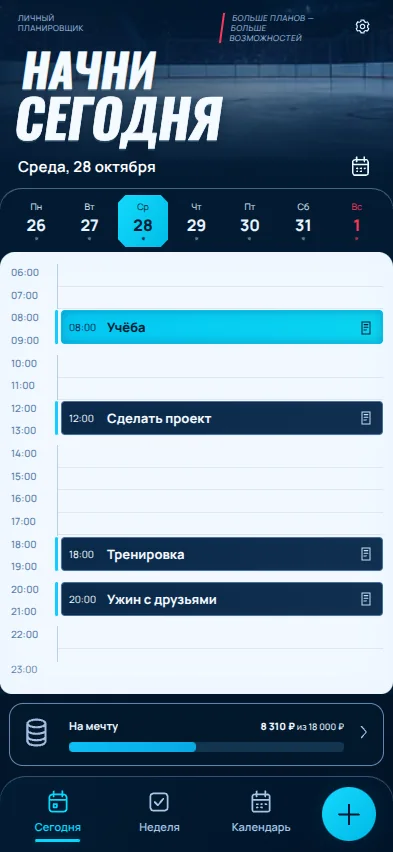
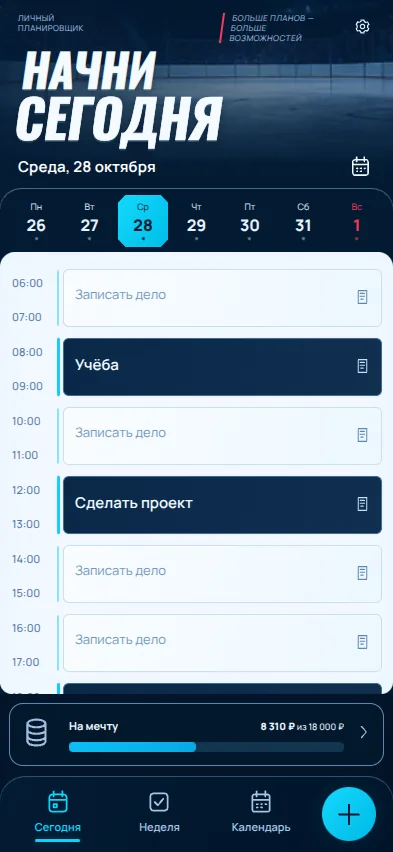
Fix Ice schedule input: 06–24 range, stable larger fields and keyboard-aware inline editing (2.3.1)

Changed region(s): [[0.0305, 0.3052, 0.9771, 0.8239]]

diff --git a/app/src/main/assets/index.html b/app/src/main/assets/index.html
@@ -554,6 +554,49 @@ body[data-design=ice].note-open .tabs{display:none!important}
 body[data-design=ice] #main-menu-open{display:none}
 @media(max-width:350px){body[data-design=ice]{--ice-hour:22px}.ice-hero{height:181px;min-height:181px;padding-left:15px;padding-right:15px}.ice-hero h1>span{font-size:43px}.ice-hero h1>strong{font-size:49px}.ice-date-line{font-size:13px}.ice-week{gap:2px;padding-left:7px;padding-right:7px}.ice-week button>strong{font-size:15px}body[data-design=ice] .tabs{grid-template-columns:repeat(3,minmax(0,1fr)) 62px;padding-left:3px;padding-right:3px}body[data-design=ice] .tabs>.tab{font-size:10px}.ice-paper{padding-left:8px;padding-right:8px}.ice-time-block{grid-template-columns:42px minmax(0,1fr)}.ice-time-block.has-entry .ice-entry{grid-template-columns:34px minmax(0,1fr) 22px}.ice-time-block.has-entry textarea{font-size:11px}.ice-goal-copy b{font-size:10px}.ice-goal-copy strong,.ice-goal-copy small{font-size:8px}}
 
+/* The Ice schedule scrolls with usable input areas rather than squeezing all hours. */
+body[data-design=ice]{--ice-hour:34px}
+body[data-design=ice] .ice-paper{padding:14px 11px 18px}
+body[data-design=ice] .ice-time-block{height:auto;min-height:calc(var(--ice-hour) * var(--ice-hours));align-items:start}
+body[data-design=ice] .ice-hours{min-height:calc(var(--ice-hour) * var(--ice-hours));font-size:11px}
+body[data-design=ice] .ice-hours>time{top:8px;line-height:18px}
+body[data-design=ice] .ice-hours>time.ice-mid-hour{top:calc(var(--ice-hour) + 8px)}
+body[data-design=ice] .ice-entry,body[data-design=ice] .ice-time-block.has-entry .ice-entry{display:grid;grid-template-columns:minmax(0,1fr) 29px;gap:3px;align-items:start;align-self:stretch;height:auto;min-height:56px;max-height:none;min-width:0;margin:3px 0 8px 5px;padding:7px 4px 7px 6px;border:1px solid #c9dfef;border-radius:6px;background:linear-gradient(105deg,#f8fcff,#edf7ff);box-shadow:none;color:#123b60}
+body[data-design=ice] .ice-entry:before{content:'';position:absolute;left:-7px;top:0;bottom:0;width:2px;background:var(--ice-entry-mark,#16c8f5);border-radius:3px;opacity:.3}
+body[data-design=ice] .ice-time-block.has-entry .ice-entry{background:linear-gradient(105deg,#0a2949,#102f50);border-color:#3d658a;color:#f2f9ff}
+body[data-design=ice] .ice-time-block.has-entry .ice-entry:before{opacity:1}
+body[data-design=ice] .ice-card-time{display:none!important}
+body[data-design=ice] .ice-entry textarea,body[data-design=ice] .ice-time-block.has-entry textarea{box-sizing:border-box;display:block;width:100%;min-width:0;height:42px;min-height:42px;max-height:none;margin:0;padding:7px 5px;border:0;border-radius:3px;background:transparent;resize:none;overflow:auto;color:inherit;font-family:PlannerManrope,system-ui,sans-serif;font-size:15px;font-weight:600;line-height:1.55;letter-spacing:0;outline:none}
+body[data-design=ice] .ice-entry textarea::placeholder{color:#7398b8;font-size:13px;font-weight:400}
+body[data-design=ice] .ice-entry textarea:focus{background:transparent;outline:none}
+body[data-design=ice] .ice-entry-reminder,body[data-design=ice] .ice-time-block.has-entry .ice-entry-reminder{display:flex;align-items:center;justify-content:center;width:29px;height:40px;min-width:29px;padding:6px;border:0;border-radius:4px;background:transparent;color:#5c8ab0}
+body[data-design=ice] .ice-time-block.has-entry .ice-entry-reminder{color:#c8def4}
+body[data-design=ice] .ice-entry-reminder svg{height:18px;width:18px}
+body[data-design=ice] .ice-time-block.has-entry.ice-current .ice-entry{background:linear-gradient(110deg,#07caf2,#0bd6ef);border-color:#04b6dd;color:#042b44}
+body[data-design=ice] .ice-time-block.has-entry.ice-current textarea,body[data-design=ice] .ice-time-block.has-entry.ice-current .ice-entry-reminder{color:#042b44}
+.ice-edit-bar{display:none}
+/* A focused entry gets the visible area above the Android keyboard. */
+body[data-design=ice].ice-editing main{height:var(--ice-visible-height,100dvh);max-height:var(--ice-visible-height,100dvh)}
+body[data-design=ice].ice-editing .ice-hero{height:46px;min-height:46px;padding:6px 13px}
+body[data-design=ice].ice-editing .ice-hero-top,body[data-design=ice].ice-editing .ice-hero h1,body[data-design=ice].ice-editing .ice-week{display:none}
+body[data-design=ice].ice-editing .ice-date-line{margin-top:0;min-height:32px;font-size:13px}
+body[data-design=ice].ice-editing #ice-goal,body[data-design=ice].ice-editing .tabs{display:none!important}
+body[data-design=ice].ice-editing .ice-edit-bar{display:flex;align-items:center;justify-content:space-between;gap:12px;height:49px;min-height:49px;padding:5px 13px;background:#06233e;color:#e6f7ff;border-top:1px solid #2c5273}
+.ice-edit-bar>span{display:flex;flex-direction:column;gap:1px}
+.ice-edit-bar small{font-size:8px;font-weight:400;color:#92b5d4}
+.ice-edit-bar strong{font-size:14px;font-weight:700;letter-spacing:.2px}
+.ice-edit-bar button{border:0;border-radius:7px;background:#09d2f2;color:#00243b;font-family:inherit;font-size:13px;font-weight:750;min-height:36px;padding:8px 16px}
+body[data-design=ice].ice-editing .ice-paper{border-radius:10px 10px 0 0;padding-top:12px;padding-bottom:22px}
+body[data-design=ice] .ice-time-block.ice-row-editing{min-height:148px}
+body[data-design=ice] .ice-time-block.ice-row-editing .ice-entry{align-self:start;min-height:130px;max-height:none;background:#fff;color:#123451;border:2px solid #0dbde8;padding:6px 3px 6px 5px;box-shadow:0 3px 12px #1476b513}
+body[data-design=ice] .ice-time-block.ice-row-editing .ice-entry textarea{font-size:16px;font-weight:500;line-height:1.6;color:#123451}
+body[data-design=ice] .ice-time-block.ice-row-editing .ice-entry-reminder{color:#4385ac}
+body[data-design=ice] .ice-time-end{padding-top:3px;height:24px;line-height:18px;font-size:11px}
+@media(max-width:350px){body[data-design=ice]{--ice-hour:34px}body[data-design=ice] .ice-entry textarea,body[data-design=ice] .ice-time-block.has-entry textarea{font-size:14px}body[data-design=ice] .ice-time-block.ice-row-editing .ice-entry textarea{font-size:16px}}
+
+
+body[data-design=ice] .ice-time-block.ice-row-editing.has-entry.ice-current .ice-entry{background:#fff;color:#123451;border-color:#0dbde8}
+body[data-design=ice] .ice-time-block.ice-row-editing.has-entry.ice-current textarea{color:#123451}
 </style></head><body><main><header class="app-heading"><p id="top-date"></p><div class="header-actions"><button class="header-icon" data-tab="events" aria-label="События и напоминания"><svg viewBox="0 0 24 24" fill="none" stroke="currentColor" stroke-width="1.7"><path d="M18 8a6 6 0 0 0-12 0c0 7-3 7-3 9h18c0-2-3-2-3-9M10 21h4"/></svg></button><button class="header-icon" id="settings-open" aria-label="Настройки" aria-expanded="false"><svg viewBox="0 0 24 24" fill="none" stroke="currentColor" stroke-width="1.7"><path d="m10 3-.7 2.3-2 .9-2.2-.7-2 3.4 1.5 1.8v2.6L3.1 15l2 3.4 2.2-.7 2 .9.7 2.4h4l.7-2.4 2-.9 2.2.7 2-3.4-1.5-1.7v-2.6l1.5-1.8-2-3.4-2.2.7-2-.9L14 3z"/><circle cx="12" cy="12" r="3"/></svg></button></div></header><nav class="tabs" aria-label="Период"><button class="tab active" data-tab="day"><svg class="ui-icon" width="20" height="20" viewBox="0 0 24 24" fill="none" stroke="currentColor" stroke-width="1.65" stroke-linecap="round" stroke-linejoin="round" aria-hidden="true"><rect x="4" y="5" width="16" height="16" rx="3"/><path d="M8 3v4m8-4v4M4 11h16m-11 4h2v2H9z"/></svg><span>День</span></button><button class="tab" data-tab="week"><svg class="ui-icon" width="20" height="20" viewBox="0 0 24 24" fill="none" stroke="currentColor" stroke-width="1.65" stroke-linecap="round" stroke-linejoin="round" aria-hidden="true"><rect x="3" y="3" width="7" height="7" rx="1"/><rect x="14" y="3" width="7" height="7" rx="1"/><rect x="3" y="14" width="7" height="7" rx="1"/><rect x="14" y="14" width="7" height="7" rx="1"/></svg><span>Неделя</span></button><button class="tab" data-tab="calendar"><svg class="ui-icon" width="20" height="20" viewBox="0 0 24 24" fill="none" stroke="currentColor" stroke-width="1.65" stroke-linecap="round" stroke-linejoin="round" aria-hidden="true"><rect x="4" y="5" width="16" height="16" rx="3"/><path d="M8 3v4m8-4v4M4 11h16m-11 4h6"/></svg><span>Календарь</span></button><button class="tab" data-tab="savings"><svg class="ui-icon" width="20" height="20" viewBox="0 0 24 24" fill="none" stroke="currentColor" stroke-width="1.65" stroke-linecap="round" stroke-linejoin="round" aria-hidden="true"><ellipse cx="12" cy="5" rx="7" ry="3"/><path d="M5 5v5c0 4 14 4 14 0V5M5 10v5c0 4 14 4 14 0v-5M5 15v4c0 4 14 4 14 0v-4"/></svg><span>Накопления</span></button><button class="tab" data-tab="notes"><svg class="ui-icon" width="20" height="20" viewBox="0 0 24 24" fill="none" stroke="currentColor" stroke-width="1.65" stroke-linecap="round" stroke-linejoin="round" aria-hidden="true"><path d="M14 3H6a2 2 0 0 0-2 2v14a2 2 0 0 0 2 2h12a2 2 0 0 0 2-2V9zM14 3v6h6M8 13h8m-8 4h6"/></svg><span>Заметки</span></button><button class="tab" data-tab="events" aria-label="События и напоминания"><svg class="ui-icon" width="20" height="20" viewBox="0 0 24 24" fill="none" stroke="currentColor" stroke-width="1.65" stroke-linecap="round" stroke-linejoin="round" aria-hidden="true"><path d="M18 8a6 6 0 0 0-12 0c0 7-3 7-3 9h18c0-2-3-2-3-9M10 21h4"/></svg></button></nav><div class="toolbar"><div class="period-title"><h1 class="date-title" id="title"></h1><p class="sub" id="subtitle"></p></div><div class="nav"><button class="btn arrow" id="prev" aria-label="Предыдущий период">‹</button><label class="sr-only" for="date">Выбрать дату</label><input class="date-input" id="date" type="date"><button class="btn arrow" id="next" aria-label="Следующий период">›</button><button class="btn" id="today">Сегодня</button></div></div><div id="view"></div><div id="footer-home" hidden></div><footer id="app-footer" hidden><span id="save-state" role="status">Сохранено на устройстве</span><button id="global-calc-open" hidden aria-label="Калькулятор"></button></footer></main>
 <dialog id="reminder-dialog" aria-labelledby="reminder-title"><form id="reminder-form"><div class="dialog-head"><h2 id="reminder-title">Событие</h2><button type="button" data-close="reminder-dialog" aria-label="Закрыть">×</button></div><input name="reminderId" type="hidden"><label class="field">Название<input name="title" maxlength="500" required placeholder="Например, день рождения"></label><div class="reminder-datetime"><label class="field">Дата<input name="date" type="date" required></label><label class="field">Время<input name="time" type="time" required></label></div><label class="field">Напомнить<select name="lead"><option value="0">В указанное время</option><option value="5">За 5 минут</option><option value="10">За 10 минут</option><option value="15">За 15 минут</option><option value="30">За 30 минут</option><option value="60">За 1 час</option><option value="1440">За 1 день</option></select></label><label class="field">Повтор<select name="repeat"><option value="none">Один раз</option><option value="daily">Каждый день</option><option value="weekly">По дням недели</option><option value="monthly">Каждый месяц</option><option value="yearly">Каждый год</option></select></label><div id="weekday-options" class="weekday-options" hidden><label><input name="weekdays" type="checkbox" value="1">Пн</label><label><input name="weekdays" type="checkbox" value="2">Вт</label><label><input name="weekdays" type="checkbox" value="3">Ср</label><label><input name="weekdays" type="checkbox" value="4">Чт</label><label><input name="weekdays" type="checkbox" value="5">Пт</label><label><input name="weekdays" type="checkbox" value="6">Сб</label><label><input name="weekdays" type="checkbox" value="7">Вс</label></div><p class="dialog-note" id="repeat-help"></p><label class="enabled-reminder"><input type="checkbox" name="enabled" checked>Уведомление включено</label><p id="reminder-error" class="form-error" hidden></p><div class="dialog-actions"><button type="button" class="btn danger" id="reminder-delete" hidden>Удалить</button><button type="submit" class="btn primary">Сохранить</button></div></form></dialog>
 <dialog id="main-menu-dialog" aria-labelledby="main-menu-title"><form id="main-menu-form"><div class="dialog-head"><h2 id="main-menu-title">Главное меню</h2><button type="button" data-close="main-menu-dialog" aria-label="Закрыть">×</button></div><p class="dialog-note">Выбери три раздела для нижнего меню. Плюс остаётся третьей кнопкой. Выбор и порядок одинаковы во всех темах.</p><div id="main-menu-preview" class="main-menu-preview" aria-label="Предпросмотр меню"></div><label class="field">Первая кнопка<select name="menuFirst"></select></label><label class="field">Вторая кнопка<select name="menuSecond"></select></label><label class="field">Кнопка справа от плюса<select name="menuThird"></select></label><p id="main-menu-error" class="form-error" role="alert" hidden></p><p class="dialog-note">Скрытие кнопки не удаляет записи. На день и в настройки можно перейти через «+».</p><button class="btn" id="main-menu-reset" type="button">По умолчанию</button><div class="dialog-actions"><button class="btn" type="button" data-close="main-menu-dialog">Отмена</button><button class="btn primary" id="main-menu-save" type="submit">Сохранить</button></div></form></dialog><dialog id="ice-menu-dialog" aria-labelledby="ice-menu-title"><div class="dialog-head"><h2 id="ice-menu-title">Больше возможностей</h2><button data-close="ice-menu-dialog" aria-label="Закрыть">×</button></div><div id="ice-tools-list"></div></dialog><dialog id="theme-dialog" aria-labelledby="theme-title"><div class="dialog-head"><h2 id="theme-title">Оформление</h2><button data-close="theme-dialog" aria-label="Закрыть">×</button></div><p class="dialog-note">Открой оформление, посмотри его разделы и нажми «Применить». Цвета можно настроить отдельно.</p><h3 class="appearance-label">Темы приложения</h3><div id="design-gallery" class="design-gallery"></div><h3 class="appearance-label">Цветовая тема</h3><div class="themes-grid" id="themes-grid"></div><section class="custom-theme"><h3>Своя тема</h3><label class="custom-accent-label">Цвет акцента<input id="custom-accent" type="color" value="#52699b"></label><label class="enabled-reminder"><input id="custom-dark" type="checkbox">Тёмный фон</label><button class="btn primary" id="custom-theme-apply">Применить свой цвет</button></section><label class="field">Шрифт интерфейса<select id="typeface-choice"><option value="theme">По теме</option><option value="modern">Современный · Manrope</option><option value="book">Книжный · Lora</option><option value="system">Системный</option></select></label><label class="field">Размер записей<select id="font-size-choice"><option value="small">Компактный</option><option value="normal">Обычный</option><option value="large">Крупный</option></select></label><label class="field">Высота строк расписания<select id="density-choice"><option value="normal">Обычная</option><option value="compact">Компактная</option></select></label></dialog>
@@ -816,14 +859,29 @@ document.addEventListener('click',e=>{const b=e.target.closest('button');if(!b)r
 const iceIcons={today:'<rect x="4" y="5" width="16" height="16" rx="3"/><path d="M8 2v5m8-5v5M4 10h16M8 14h3v3H8z"/>',week:'<rect x="4" y="4" width="16" height="16" rx="3"/><path d="m8 12 3 3 5-6"/>',calendar:'<rect x="4" y="5" width="16" height="16" rx="2"/><path d="M8 2v5m8-5v5M4 10h16M8 14h1m3 0h1m3 0h1M8 17h1m3 0h1"/>',plus:'<path d="M12 3v18M3 12h18"/>',calculator:'<rect x="5" y="2" width="14" height="20" rx="2"/><path d="M8 6h8v4H8zM8 14h1m3 0h1m3 0h.1M8 18h1m3 0h1m3 0h.1"/>',notes:'<path d="M6 3h12v18H6zM9 7h6M9 11h6M9 15h4"/>',savings:'<ellipse cx="12" cy="5" rx="7" ry="3"/><path d="M5 5v5c0 4 14 4 14 0V5M5 10v5c0 4 14 4 14 0v-5M5 15v4c0 4 14 4 14 0v-4"/>',gear:'<path d="m10 3-.7 2.3-2 .9-2.2-.7-2 3.4 1.5 1.8v2.6L3.1 15l2 3.4 2.2-.7 2 .9.7 2.4h4l.7-2.4 2-.9 2.2.7 2-3.4-1.5-1.7v-2.6l1.5-1.8-2-3.4-2.2.7-2-.9L14 3z"/><circle cx="12" cy="12" r="3"/>',arrow:'<path d="m9 4 7 8-7 8"/>'};
 function iceIcon(name){return '<svg viewBox="0 0 24 24" fill="none" stroke="currentColor" stroke-width="1.65" stroke-linecap="round" stroke-linejoin="round" aria-hidden="true">'+iceIcons[name]+'</svg>'}
 function renderDay(){if(state.prefs.design==='ice')renderIceDay();else renderLegacyDay()}
-function syncDesignNavigation(){const nav=document.querySelector('.tabs');if(state.prefs?.design!=='ice'){const goal=$('ice-goal');if(goal)goal.hidden=true;syncLegacyDesignNavigation();return}const gear=$('settings-open'),home=document.querySelector('.header-actions');if(gear&&home&&gear.parentElement!==home)home.appendChild(gear);if(!nav)return;nav.dataset.unifiedMenu='ice';nav.dataset.menuKey='';if(!nav.querySelector('#ice-add'))nav.innerHTML=`<button class="tab" data-ice-action="today" aria-label="Сегодня">${iceIcon('today')}<span>Сегодня</span></button><button class="tab" data-tab="week">${iceIcon('week')}<span>Неделя</span></button><button class="tab" data-tab="calendar">${iceIcon('calendar')}<span>Календарь</span></button><button class="ice-compose" id="ice-add" aria-label="Открыть инструменты">${iceIcon('plus')}</button>`;const today=nav.querySelector('[data-ice-action=today]');today.classList.toggle('active',tab==='day'&&selected===iso());today.setAttribute('aria-current',tab==='day'&&selected===iso()?'page':'false');const oldGoal=$('reference-goal');if(oldGoal)oldGoal.hidden=true;let goal=$('ice-goal');if(!goal){goal=document.createElement('button');goal.id='ice-goal';goal.className='ice-goal';goal.dataset.iceAction='savings';nav.before(goal)}goal.hidden=tab!=='day';if(!goal.hidden){const s=state.savings,paid=paidCents(s),pct=Math.min(100,100*paid/cents(s.target));goal.innerHTML=`<span class="ice-goal-mark">${iceIcon('savings')}</span><span class="ice-goal-copy"><span><b>${esc(s.name||'Моя цель')}</b><strong>${rub(paid/100)} <small>из ${rub(s.target)}</small></strong></span><span class="ice-goal-track"><i style="width:${pct}%"></i></span></span><span class="ice-goal-arrow">${iceIcon('arrow')}</span>`}}
-function renderIceDay(){const start=monday(selected);$('view').innerHTML=`<section class="ice-home"><header class="ice-hero"><div class="ice-photo-clip" aria-hidden="true"><img src="ice/arena-reference.webp" alt=""></div><div class="ice-photo-shade"></div><div class="ice-hero-top"><span>ЛИЧНЫЙ<br>ПЛАНИРОВЩИК</span><p>БОЛЬШЕ ПЛАНОВ —<br>БОЛЬШЕ ВОЗМОЖНОСТЕЙ</p><span id="ice-gear-slot"></span></div><h1><span>Начни</span><strong>сегодня</strong></h1><div class="ice-date-line"><span>${fmt(selected,{weekday:'long',day:'numeric',month:'long'}).replace(/^./,c=>c.toUpperCase())}</span><button data-tab="calendar" aria-label="Выбрать дату">${iceIcon('calendar')}</button></div></header><nav class="ice-week" aria-label="Дни недели">${Array.from({length:7},(_,i)=>{const d=addDays(start,i),count=occupied(d)+dayEvents(d).length;return `<button data-date="${d}" class="${i===6?'ice-sunday':''}" ${d===selected?'aria-current="date"':''} aria-label="${fmt(d,{weekday:'long',day:'numeric',month:'long'})}"><span>${fmt(d,{weekday:'short'})}</span><strong>${dateObj(d).getDate()}</strong><i class="${count?'has-plans':''}"></i></button>`}).join('')}</nav><div class="ice-paper"><div class="ice-time-grid">${slots().map((r,i)=>{const [a,b]=TIMES[i].split('–'),h=Number(a.split(':')[0]),end=Number(b.split(':')[0]),hours=end-h;return `<section class="ice-time-block ${r.text.trim()?'has-entry':''}" data-ice-slot="${i}" style="--ice-hours:${hours}"><div class="ice-hours"><time>${a}</time>${hours>1?`<time class="ice-mid-hour">${String(h+1).padStart(2,'0')}:00</time>`:''}</div><div class="ice-entry" style="--ice-entry-mark:${r.color==='none'?'#18caff':COLORS[r.color][1]}"><span class="ice-card-time">${a}</span><label class="sr-only" for="slot-${i}">Дела с ${a} до ${b}</label><textarea rows="1" id="slot-${i}" data-edit="${i}" aria-label="Дела с ${a} до ${b}" maxlength="10000" placeholder="">${esc(r.text)}</textarea><button class="ice-entry-reminder" data-slot-reminder="${i}" aria-label="Напоминание для ${a}">${iceIcon('notes')}</button></div></section>`}).join('')}<div class="ice-time-end">23:00</div></div></div></section>`;$('ice-gear-slot').appendChild($('settings-open'));refreshIceRows()}
-function refreshIceRows(){if(state.prefs.design!=='ice'||tab!=='day')return;const now=new Date(),minutes=now.getHours()*60+now.getMinutes();document.querySelectorAll('.ice-time-block').forEach(row=>{const i=Number(row.dataset.iceSlot),text=row.querySelector('textarea');row.classList.toggle('has-entry',!!text.value.trim());const [a,b]=TIMES[i].split('–').map(t=>{const [h,m]=t.split(':').map(Number);return h*60+m});row.classList.toggle('ice-current',selected===iso()&&minutes>=a&&minutes<b);text.style.height='auto';text.style.height=Math.min(43,Math.max(25,text.scrollHeight))+'px'})}
+function syncDesignNavigation(){if(state.prefs?.design!=='ice'||tab!=='day')endIceEditing(false);const nav=document.querySelector('.tabs');if(state.prefs?.design!=='ice'){const goal=$('ice-goal');if(goal)goal.hidden=true;syncLegacyDesignNavigation();return}const gear=$('settings-open'),home=document.querySelector('.header-actions');if(gear&&home&&gear.parentElement!==home)home.appendChild(gear);if(!nav)return;nav.dataset.unifiedMenu='ice';nav.dataset.menuKey='';if(!nav.querySelector('#ice-add'))nav.innerHTML=`<button class="tab" data-ice-action="today" aria-label="Сегодня">${iceIcon('today')}<span>Сегодня</span></button><button class="tab" data-tab="week">${iceIcon('week')}<span>Неделя</span></button><button class="tab" data-tab="calendar">${iceIcon('calendar')}<span>Календарь</span></button><button class="ice-compose" id="ice-add" aria-label="Открыть инструменты">${iceIcon('plus')}</button>`;const today=nav.querySelector('[data-ice-action=today]');today.classList.toggle('active',tab==='day'&&selected===iso());today.setAttribute('aria-current',tab==='day'&&selected===iso()?'page':'false');const oldGoal=$('reference-goal');if(oldGoal)oldGoal.hidden=true;let goal=$('ice-goal');if(!goal){goal=document.createElement('button');goal.id='ice-goal';goal.className='ice-goal';goal.dataset.iceAction='savings';nav.before(goal)}goal.hidden=tab!=='day';if(!goal.hidden){const s=state.savings,paid=paidCents(s),pct=Math.min(100,100*paid/cents(s.target));goal.innerHTML=`<span class="ice-goal-mark">${iceIcon('savings')}</span><span class="ice-goal-copy"><span><b>${esc(s.name||'Моя цель')}</b><strong>${rub(paid/100)} <small>из ${rub(s.target)}</small></strong></span><span class="ice-goal-track"><i style="width:${pct}%"></i></span></span><span class="ice-goal-arrow">${iceIcon('arrow')}</span>`}}
+function renderIceDay(){const start=monday(selected);$('view').innerHTML=`<section class="ice-home"><header class="ice-hero"><div class="ice-photo-clip" aria-hidden="true"><img src="ice/arena-reference.webp" alt=""></div><div class="ice-photo-shade"></div><div class="ice-hero-top"><span>ЛИЧНЫЙ<br>ПЛАНИРОВЩИК</span><p>БОЛЬШЕ ПЛАНОВ —<br>БОЛЬШЕ ВОЗМОЖНОСТЕЙ</p><span id="ice-gear-slot"></span></div><h1><span>Начни</span><strong>сегодня</strong></h1><div class="ice-date-line"><span>${fmt(selected,{weekday:'long',day:'numeric',month:'long'}).replace(/^./,c=>c.toUpperCase())}</span><button data-tab="calendar" aria-label="Выбрать дату">${iceIcon('calendar')}</button></div></header><nav class="ice-week" aria-label="Дни недели">${Array.from({length:7},(_,i)=>{const d=addDays(start,i),count=occupied(d)+dayEvents(d).length;return `<button data-date="${d}" class="${i===6?'ice-sunday':''}" ${d===selected?'aria-current="date"':''} aria-label="${fmt(d,{weekday:'long',day:'numeric',month:'long'})}"><span>${fmt(d,{weekday:'short'})}</span><strong>${dateObj(d).getDate()}</strong><i class="${count?'has-plans':''}"></i></button>`}).join('')}</nav><div class="ice-edit-bar"><span><small>Редактирование</small><strong id="ice-edit-time"></strong></span><button type="button" id="ice-edit-done">Готово</button></div><div class="ice-paper"><div class="ice-time-grid">${slots().map((r,i)=>{const [a,b]=iceTimeRange(i),h=Number(a.split(':')[0]),end=Number(b.split(':')[0]),hours=end-h;return `<section class="ice-time-block ${r.text.trim()?'has-entry':''}" data-ice-slot="${i}" style="--ice-hours:${hours}"><div class="ice-hours"><time>${a}</time>${hours>1?`<time class="ice-mid-hour">${String(h+1).padStart(2,'0')}:00</time>`:''}</div><div class="ice-entry" style="--ice-entry-mark:${r.color==='none'?'#18caff':COLORS[r.color][1]}"><span class="ice-card-time">${a}</span><label class="sr-only" for="slot-${i}">Дела с ${a} до ${b}</label><textarea rows="1" id="slot-${i}" data-edit="${i}" aria-label="Дела с ${a} до ${b}" maxlength="10000" placeholder="Записать дело" spellcheck="true" autocapitalize="sentences">${esc(r.text)}</textarea><button class="ice-entry-reminder" data-slot-reminder="${i}" aria-label="Напоминание для ${a}">${iceIcon('notes')}</button></div></section>`}).join('')}<div class="ice-time-end">24:00</div></div></div></section>`;$('ice-gear-slot').appendChild($('settings-open'));refreshIceRows()}
+function refreshIceRows(){if(state.prefs.design!=='ice'||tab!=='day')return;const now=new Date(),minutes=now.getHours()*60+now.getMinutes();document.querySelectorAll('.ice-time-block').forEach(row=>{const i=Number(row.dataset.iceSlot),text=row.querySelector('textarea'),focused=text===document.activeElement,oldScroll=text.scrollTop,atEnd=text.selectionEnd===text.value.length;row.classList.toggle('has-entry',!!text.value.trim());row.classList.toggle('ice-row-editing',focused);const [a,b]=iceTimeRange(i).map(t=>{const [h,m]=t.split(':').map(Number);return h*60+m});row.classList.toggle('ice-current',selected===iso()&&minutes>=a&&minutes<b);const visible=iceVisibleHeight(),max=focused?Math.max(88,Math.min(220,visible-145)):66,min=focused?Math.min(112,max):42;text.style.height='auto';const desired=Math.min(max,Math.max(min,text.scrollHeight));text.style.height=desired+'px';if(focused)text.scrollTop=atEnd?text.scrollHeight:oldScroll})}
 function openIceMenu(){$('ice-tools-list').innerHTML=[['task','plus','Записать дело','Выбрать время в расписании'],['calculator','calculator','Калькулятор','Открыть на весь экран'],['notes','notes','Заметки','Идеи, списки и личные записи'],['savings','savings','Накопления','Посмотреть свои цели'],['settings','gear','Настройки','Темы и резервные копии']].map(([action,icon,title,desc])=>`<button data-ice-action="${action}"><span>${iceIcon(icon)}</span><span><strong>${title}</strong><small>${desc}</small></span><b>›</b></button>`).join('');$('ice-menu-dialog').showModal()}
 function focusIceTask(){navigate(selected,'day');const i=slots().findIndex(r=>!r.text.trim()),el=$('slot-'+(i<0?0:i));el.scrollIntoView({block:'center',behavior:'instant'});el.focus()}
 document.addEventListener('click',e=>{const b=e.target.closest('button');if(!b)return;if(b.id==='ice-add')openIceMenu();const a=b.dataset.iceAction;if(!a)return;if($('ice-menu-dialog').open)$('ice-menu-dialog').close();if(a==='today')navigate(iso(),'day');if(a==='task')focusIceTask();if(a==='calculator')toggleNoteCalculator(true,'full');if(a==='notes')navigate(selected,'notes');if(a==='savings')navigate(selected,'savings');if(a==='settings')toggleSettings()});
 $('view').addEventListener('input',e=>{if(state.prefs.design==='ice'&&e.target.matches('.ice-entry textarea'))refreshIceRows()});
 setInterval(refreshIceRows,60000);
+
+let iceKeyboardSeen=false,iceEditingBaseHeight=0,iceViewportFrame=0;
+function iceTimeRange(i){const [a,b]=TIMES[i].split('–');return [a,i===TIMES.length-1?'24:00':b]}
+function iceVisibleHeight(){return Math.max(180,Math.floor(window.visualViewport?.height||window.innerHeight))}
+function iceFocusedEditor(){const el=document.activeElement;return el?.matches?.('.ice-entry textarea')?el:null}
+function keepIceEditorVisible(){const text=iceFocusedEditor(),paper=document.querySelector('.ice-paper');if(!text||!paper)return;const field=text.getBoundingClientRect(),area=paper.getBoundingClientRect();if(field.top<area.top+12||field.bottom>area.bottom-12)paper.scrollTop+=field.top-area.top-12}
+function updateIceViewport(){cancelAnimationFrame(iceViewportFrame);iceViewportFrame=requestAnimationFrame(()=>{const h=iceVisibleHeight();document.documentElement.style.setProperty('--ice-visible-height',h+'px');if(!document.body.classList.contains('ice-editing'))return;if(h<iceEditingBaseHeight-110)iceKeyboardSeen=true;else if(iceKeyboardSeen&&h>=iceEditingBaseHeight-55){endIceEditing(true);return}refreshIceRows();keepIceEditorVisible()})}
+function startIceEditing(text){if(state.prefs.design!=='ice'||tab!=='day')return;if(!document.body.classList.contains('ice-editing')){iceEditingBaseHeight=Math.max(window.innerHeight,window.visualViewport?.height||0);iceKeyboardSeen=false}document.body.classList.add('ice-editing');const i=Number(text.dataset.edit);$('ice-edit-time').textContent=iceTimeRange(i).join(' — ');updateIceViewport();requestAnimationFrame(()=>{if(!text.isConnected||document.activeElement!==text)return;refreshIceRows();const paper=text.closest('.ice-paper'),field=text.getBoundingClientRect(),area=paper.getBoundingClientRect();paper.scrollTop+=field.top-area.top-16;keepIceEditorVisible()})}
+function endIceEditing(blur=true){const focused=iceFocusedEditor();document.body.classList.remove('ice-editing');iceKeyboardSeen=false;if(blur&&focused)focused.blur();document.querySelectorAll('.ice-row-editing').forEach(row=>row.classList.remove('ice-row-editing'));if(state.prefs?.design==='ice'&&tab==='day')refreshIceRows()}
+$('view').addEventListener('focusin',e=>{if(e.target.matches('.ice-entry textarea'))startIceEditing(e.target)});
+$('view').addEventListener('focusout',e=>{if(!e.target.matches('.ice-entry textarea'))return;setTimeout(()=>{const next=iceFocusedEditor();if(next)startIceEditing(next);else endIceEditing(false)},0)});
+$('view').addEventListener('click',e=>{if(state.prefs.design!=='ice'||!e.target.closest('.ice-time-block')||e.target.closest('button,textarea'))return;e.target.closest('.ice-time-block').querySelector('textarea').focus()});
+document.addEventListener('pointerdown',e=>{if(e.target.closest('#ice-edit-done'))e.preventDefault()});
+document.addEventListener('click',e=>{if(e.target.closest('#ice-edit-done'))endIceEditing(true)});
+window.addEventListener('resize',updateIceViewport);window.visualViewport?.addEventListener('resize',updateIceViewport);window.visualViewport?.addEventListener('scroll',updateIceViewport);
 
 initializeExtras();
 if(!state.prefs.mainMenu.includes(tab))tab=state.prefs.mainMenu[0];
